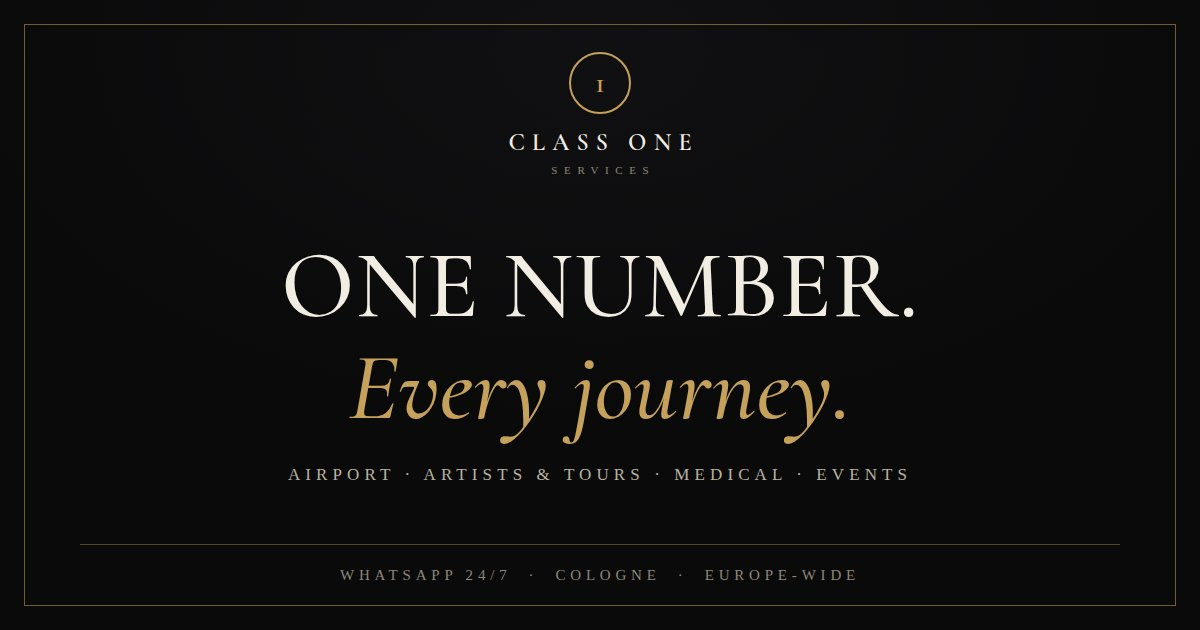
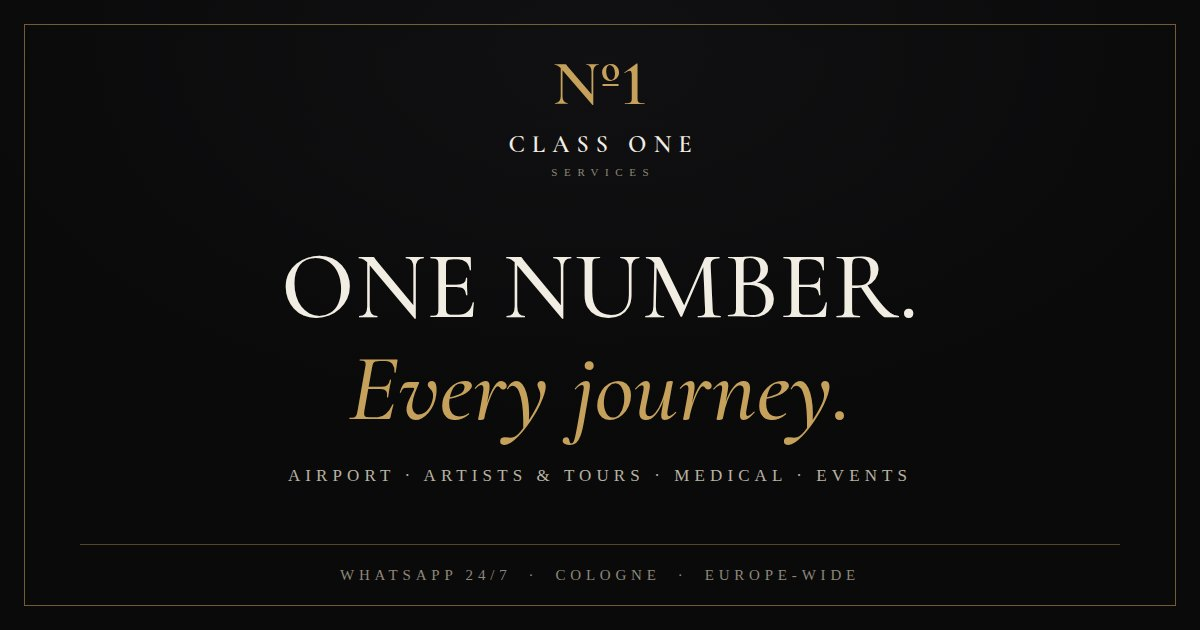
Numero mark rebrand + Rotterdam production photography
Logo swap (ring-1 -> numero mark):
- Header/footer lockup now "N(o)1" in Cormorant Garamond 600 gold —
  U+00BA carries the barred-ordinal natively; lining figures raise the
  1 to cap height
- Favicon set rebuilt from real glyph outlines; ships the "(o)1"
  variant for 16/32px legibility (full mark is unreadable at 16px)
- OG image and template updated to the new mark

Rotterdam photo set (12 files verified visually — filenames did not
match contents; no stage shots exist in the set):
- VIP Van fleet card, Experience band bg and Artists bg (heavy scrim)
  now use our own dusk fleet photography
- New case-study strip under Artists: "Arena show — Rotterdam, July
  2026" with three logistics shots; artist never named or pictured
- Ten license-plate regions blurred across five images (verified)
- Excluded from the site and from git (/photos gitignored): the
  rights-restricted artist group photo and the hotel shot with
  identifiable passersby; owner confirms team-member consent for the
  published photos
- Local masters in src/assets/photos served as AVIF/WebP with
  responsive widths via astro:assets (sharp already bundled)

Claude-Session: https://claude.ai/code/session_01VXYGsueedviD6rrMe3FDUy

diff --git a/src/data/images.ts b/src/data/images.ts
@@ -1,17 +1,30 @@
 /**
- * Every image on the site lives in this one file — swap in real fleet
- * photography later by editing only these entries.
+ * Every image on the site lives in this one file.
  *
- * All photos are Unsplash previews for now (kept from the approved
- * prototype). `width`/`height` are layout hints for the 16:10 fleet
- * frames; the CSS `aspect-ratio` + `object-fit: cover` do the actual
- * cropping, so replacement photos of any size will render identically.
+ * Two kinds of entries:
+ *  - Remote Unsplash previews (kept from the prototype for the sedan fleet
+ *    cards, hero and contact backgrounds) — plain URL + alt.
+ *  - Local photography (Rotterdam production set, license plates blurred,
+ *    masters in src/assets/photos/) — imported so Astro's asset pipeline
+ *    emits AVIF/WebP + responsive sizes at build time.
  */
-export interface SiteImage {
+import vanDuskVenue from '../assets/photos/van-dusk-venue.jpg';
+import cabinDoorDusk from '../assets/photos/cabin-door-dusk.jpg';
+import convoyDusk from '../assets/photos/convoy-dusk.jpg';
+import fleetLineup from '../assets/photos/fleet-lineup.jpg';
+import vanLoadIn from '../assets/photos/van-load-in.jpg';
+import coordinators from '../assets/photos/coordinators.jpg';
+
+export interface RemoteImage {
   src: string;
   alt: string;
   width: number;
   height: number;
+}
+
+export interface LocalImage {
+  image: ImageMetadata;
+  alt: string;
 }
 
 export const images = {
@@ -23,7 +36,7 @@ export const images = {
     height: 1200,
   },
 
-  /** Fleet cards — rendered as real <img> elements (lazy, 16:10 frame). */
+  /** Fleet cards — sedans stay Unsplash previews; the VIP Van is our own. */
   fleet: {
     business: {
       src: 'https://images.unsplash.com/photo-1553440569-bcc63803a83d?auto=format&fit=crop&w=1200&q=70',
@@ -38,10 +51,8 @@ export const images = {
       height: 750,
     },
     van: {
-      src: 'https://images.unsplash.com/photo-1511919884226-fd3cad34687c?auto=format&fit=crop&w=1200&q=70',
-      alt: 'VIP Van — Mercedes-Benz V-Class',
-      width: 1200,
-      height: 750,
+      image: vanDuskVenue,
+      alt: 'Class One Mercedes-Benz V-Class vans at dusk outside the venue, sliding door open',
     },
     lounge: {
       src: 'https://images.unsplash.com/photo-1563720223185-11003d516935?auto=format&fit=crop&w=1200&q=70',
@@ -51,13 +62,33 @@ export const images = {
     },
   },
 
-  /** Experience quote band background (decorative CSS background). */
+  /** Experience quote band background — V-Class cabin glowing at dusk. */
   experience: {
-    src: 'https://images.unsplash.com/photo-1563720223185-11003d516935?auto=format&fit=crop&w=1800&q=70',
-    alt: 'First-class cabin seating in warm light',
-    width: 1800,
-    height: 1200,
+    image: cabinDoorDusk,
+    alt: 'Open V-Class door revealing the lit cream leather cabin at dusk',
   },
+
+  /** Artists & Management section background (heavy scrim over it). */
+  artists: {
+    image: convoyDusk,
+    alt: 'Chauffeur convoy of V-Class vans waiting at the venue at dusk',
+  },
+
+  /** Case-study strip — Rotterdam production, July 2026. */
+  caseStudy: [
+    {
+      image: fleetLineup,
+      alt: 'Three Mercedes-Benz V-Class vans with chauffeurs lined up outside the production studio',
+    },
+    {
+      image: vanLoadIn,
+      alt: 'Crew van at the load-in, rear doors side, before the show',
+    },
+    {
+      image: coordinators,
+      alt: 'Two Class One coordinators talking between runs',
+    },
+  ],
 
   /** Contact section background (decorative CSS background). */
   contact: {

diff --git a/scripts/og-template.html b/scripts/og-template.html
@@ -53,10 +53,9 @@
   }
   .og::after{content:"";position:absolute;inset:24px;border:1px solid rgba(198,161,91,.55);pointer-events:none}
   .lock{display:flex;flex-direction:column;align-items:center}
-  .ring{
-    width:58px;height:58px;border:2px solid var(--gold);border-radius:50%;
-    display:flex;align-items:center;justify-content:center;
-    font-family:var(--display);font-weight:600;color:var(--gold);font-size:30px;line-height:1;
+  .mark{
+    font-family:var(--display);font-weight:600;color:var(--gold);
+    font-size:64px;line-height:1;font-variant-numeric:lining-nums;letter-spacing:.01em;
   }
   .wm{font-family:var(--display);font-weight:600;font-size:24px;letter-spacing:.3em;padding-left:.3em;margin-top:14px}
   .wms{font-size:11px;letter-spacing:.6em;padding-left:.6em;text-transform:uppercase;color:var(--stone);margin-top:7px}
@@ -73,7 +72,7 @@
 <body>
 <div class="og">
   <div class="lock">
-    <div class="ring">1</div>
+    <div class="mark">Nº1</div>
     <div class="wm">CLASS ONE</div>
     <div class="wms">Services</div>
   </div>

diff --git a/README.md b/README.md
@@ -8,7 +8,7 @@ Motto: **One number. Every journey.**
 | Path | Purpose |
 |---|---|
 | `src/` | The website — pages, components, styles, data (see below) |
-| `public/` | Static assets — self-hosted fonts, favicons, OG image, robots.txt |
+| `public/` | Static assets — self-hosted fonts, favicons (Nº1 numéro mark), OG image, robots.txt |
 | `scripts/og-template.html` | Source for the 1200×630 Open Graph image |
 | `class-one-website.html` | Approved design prototype — the design source of truth |
 | `class-one-collateral.html` | Brand collateral (business card, posters) — logo reference |